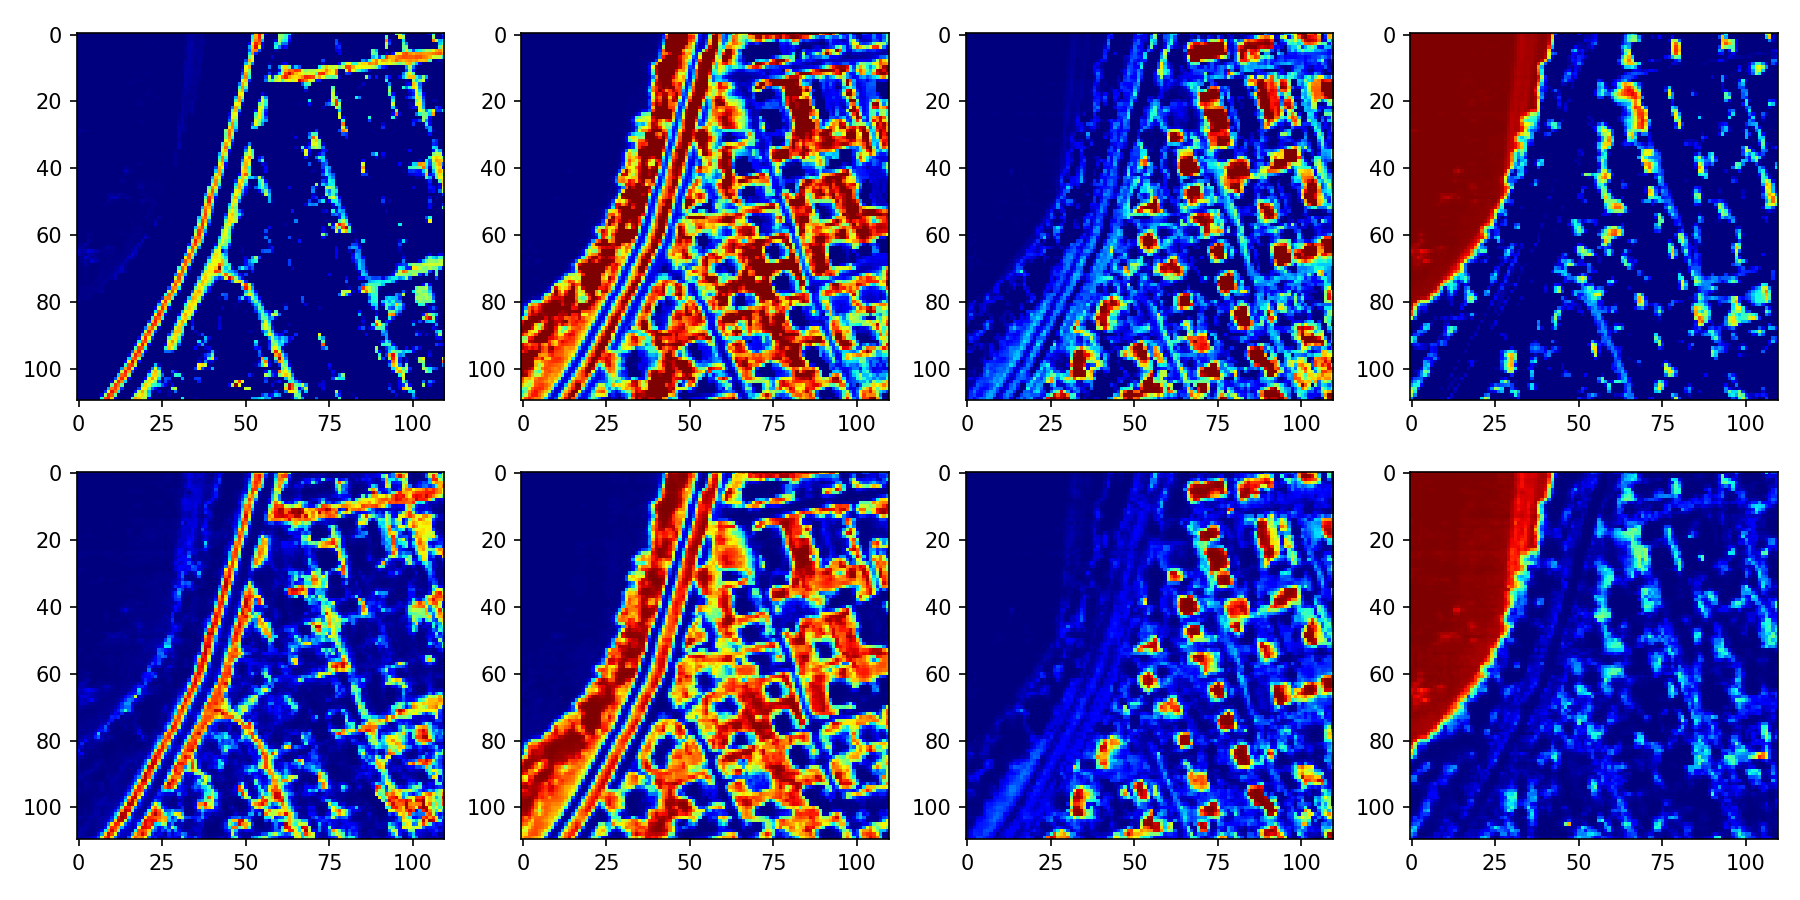
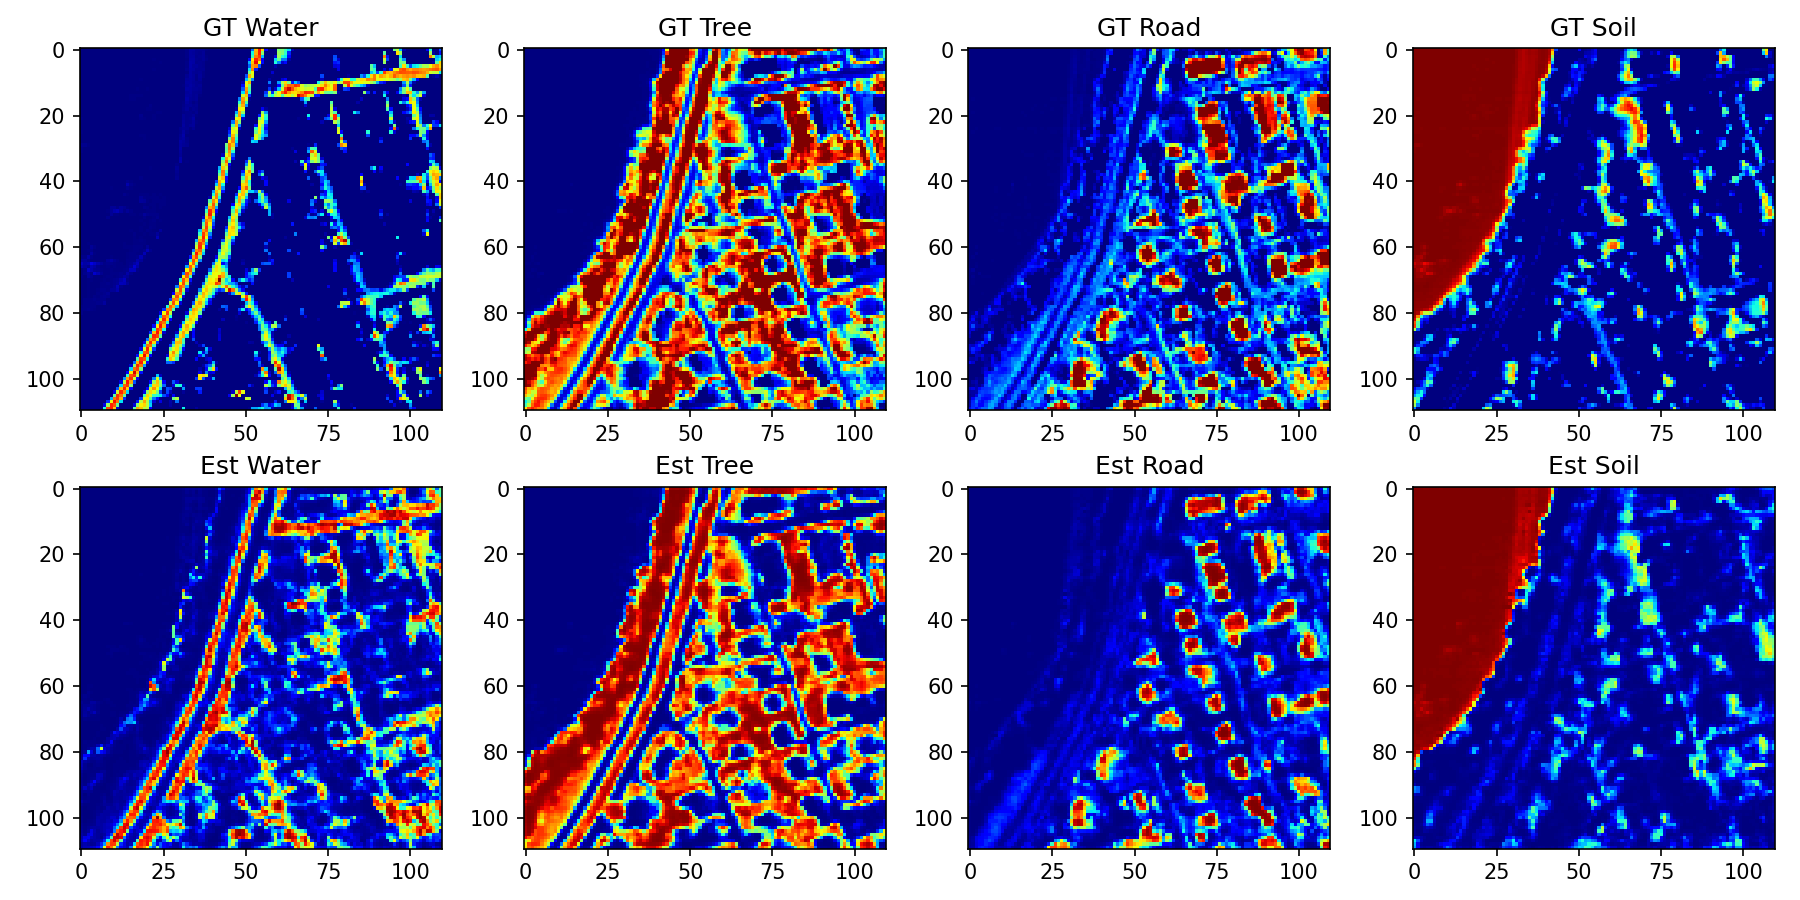
这次是完整的CNN-Transformer融合框架使用apex数据集，有完整的实验结果

diff --git a/main.py b/main.py
@@ -54,7 +54,7 @@ print("Selected device:", device)
 # -------------------------
 # 实例化Train_test类，配置实验参数
 tmod = Trans_mod.Train_test(
-    dataset='jasper',  # 指定训练数据集：'dc'为测试用数据集，毕设需改为'samson'/'jasper/apex'（需匹配Trans_mod内的数据集映射）
+    dataset='apex',  # 指定训练数据集：'dc'为测试用数据集，毕设需改为'samson'/'jasper/apex'（需匹配Trans_mod内的数据集映射）
     device=device,  # 指定模型训练/测试的计算设备（上述选中的cuda:0/cpu）
     skip_train=False,  # 是否跳过训练：False=从头训练；True=加载已保存模型直接测试（训练完成后可改True）
     save=True  # 是否保存结果：True=保存模型权重、SAD/RMSE指标、可视化图；False=仅临时运行不保存

diff --git a/Trans_mod.py b/Trans_mod.py
@@ -220,11 +220,11 @@ class Train_test:
         elif dataset == 'apex':
             # APEX数据集：4端元、285波段、110×110像素
             self.P, self.L, self.col = 4, 285, 110
-            self.LR, self.EPOCH = 9e-3, 200
+            self.LR, self.EPOCH = 8e-3, 200
             self.patch, self.dim = 5, 200
             self.beta, self.gamma = 5e3, 5e-2
             self.weight_decay_param = 4e-5
-            self.order_abd, self.order_endmem = (3, 1, 2, 0), (3, 1, 2, 0)
+            self.order_abd, self.order_endmem = (0, 1, 2, 3), (0, 1, 2, 3)
             self.data = datasets.Data(dataset, device)
             self.loader = self.data.get_loader(batch_size=self.col ** 2)
             self.init_weight = self.data.get("init_weight").unsqueeze(2).unsqueeze(3).float()

diff --git a/plots.py b/plots.py
@@ -41,6 +41,9 @@ def plot_abundance(ground_truth, estimated, em, save_dir, dataset='unknown'):
         class_names = ['Soil', 'Tree', 'Water']
     elif dataset == 'jasper':
         class_names = ['Veg', 'Soil', 'Water', 'Road']
+    elif dataset == 'apex':
+        # APEX数据集的标准4端元：水体、植被、道路、土壤
+        class_names = ['Water', 'Tree', 'Road', 'Soil']
     else:
         class_names = [f'Endmember {i + 1}' for i in range(em)]
     
